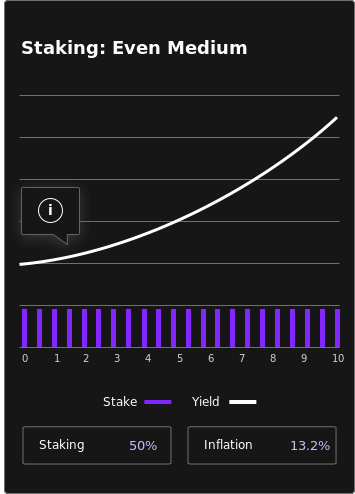
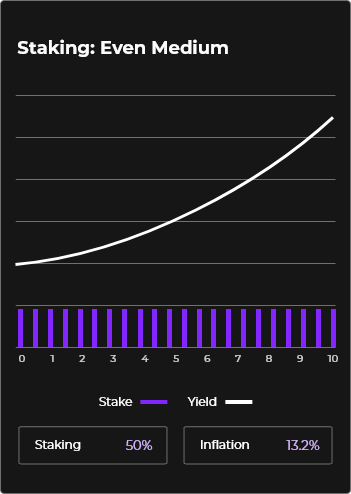
fix

diff --git a/src/views/Home.vue b/src/views/Home.vue
@@ -142,7 +142,7 @@
 
       <div id="charts">
         <div v-show="width > 1280" class="chart-background"></div>
-        <div style="position: relative">
+        <div :class="{ 'position-relative': width < 760 }">
           <img
             v-if="width >= 760"
             class="charts-image"
@@ -160,8 +160,9 @@
             class="charts-image small-charts-image"
             :src="'/charts/' + smallCharts[cIndex] + '.png'"
           />
-
-          <div class="info" @click="showHelpModal = !showHelpModal"></div>
+          <div class="info" v-show="width < 760" @click="showHelpModal = !showHelpModal">
+            <img src="@/assets/images/info.svg" />
+          </div>
           <div
             v-show="width >= 1280"
             class="arrow left-arrow"
@@ -401,7 +402,7 @@ export default {
       ],
       gridLabel: "unpegged stablecoin",
       charts: ["shortbias", "longbias", "evenhigh"],
-      smallCharts: ["smallchart", "smallchart", "smallchart"],
+      smallCharts: ["shortbias-small", "smallchart", "evenhigh-small"],
       cIndex: 0,
       showHelpModal: true,
     };

diff --git a/src/assets/css/Dapp.css b/src/assets/css/Dapp.css
@@ -13,7 +13,7 @@
   padding-right: 12px;
 }
 
-@media screen and (min-width: 1400px) {
+@media screen and (min-width: 1280px) {
   .up-container {
     display: flex;
   }
@@ -72,14 +72,14 @@
     position: absolute;
     border-bottom: 3px solid gray;
     margin-left: 78px;
-    width: 923px;
+    width: 77%;
     bottom: 67px;
   }
 
   .box {
     border: 2px solid #404040;
     border-radius: 4px 4px;
-    margin-top: 12px;
+    
   }
 
   .clear-y-axis {
@@ -758,7 +758,7 @@
   border: 2px solid #404040;
   border-radius: 4px 4px;
   margin-top: 12px;
-  height: 197px;
+  height: calc(100% - 0.75rem);
 }
 
 .recent-box .recent-title-container {

diff --git a/src/assets/css/Home.css b/src/assets/css/Home.css
@@ -1676,10 +1676,8 @@
 }
 
 .info {
-  width: 50px;
-  height: 30px;
-  background-color: transparent;
   position: absolute;
-  top: 42%;
-  left: 28px;
+  top: 35%;
+  left: 3px;
+  cursor: pointer;
 }
